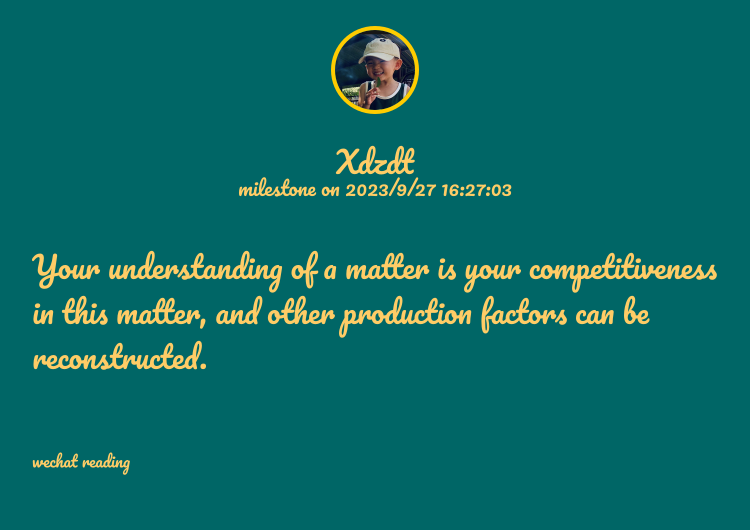
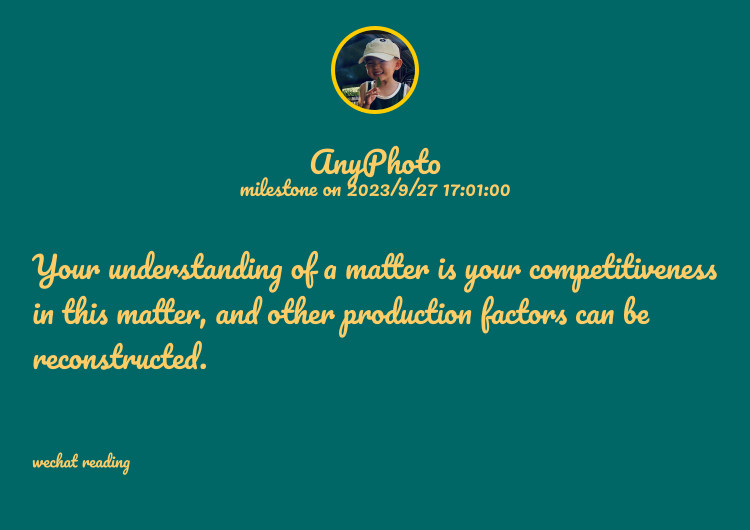
feat(output): support set custom output name

Changed region(s): [[0.3067, 0.2717, 0.6747, 0.3925]]

diff --git a/src/cmd/generate.js b/src/cmd/generate.js
@@ -1,6 +1,13 @@
 const path = require('path')
 const fs = require('fs')
-const { defaultAuthor, defaultAvatar, defaultOutput, defaultConfigName, optionsCpu } = require('../config')
+const {
+  defaultAuthor,
+  defaultAvatar,
+  defaultOutputDirPath,
+  defaultOutputName,
+  defaultConfigName,
+  optionsCpu
+} = require('../config')
 const { defaultCanvasSetting } = require('../setting')
 const draw = require('../draw')
 
@@ -47,8 +54,10 @@ const getAnyPhotoConfigByKey = ({ key, options }) => {
       return defaultAuthor
     case 'defaultAvatar':
       return defaultAvatar
-    case 'defaultOutput':
-      return defaultOutput
+    case 'defaultOutputDirPath':
+      return defaultOutputDirPath
+    case 'defaultOutputName':
+      return defaultOutputName
     default:
       return ''
   }
@@ -56,13 +65,15 @@ const getAnyPhotoConfigByKey = ({ key, options }) => {
 const getAnyPhotoConfig = ({ options }) => {
   const avatar = getAnyPhotoConfigByKey({ key: 'avatar', options })
   const author = getAnyPhotoConfigByKey({ key: 'author', options })
-  const output = getAnyPhotoConfigByKey({ key: 'output', options })
+  const outputDirPath = getAnyPhotoConfigByKey({ key: 'outputDirPath', options })
+  const outputName = getAnyPhotoConfigByKey({ key: 'outputName', options })
 
   return {
     ...handelValidAnyPhotoConfig({
       avatar,
       author,
-      output
+      outputDirPath,
+      outputName
     }),
     canvasSetting: getUserAnyPhotoConfigByKey({ defaultKey: 'canvasSetting' }) || defaultCanvasSetting
   }

diff --git a/src/config.js b/src/config.js
@@ -6,7 +6,8 @@ const isImageUrl = require('is-image-url')
 const defaultConfigName = 'anyphoto.config.js'
 const defaultAvatar = '/Users/weirui05/Desktop/WechatIMG38388.jpg'
 const defaultAuthor = 'AnyPhoto'
-const defaultOutput = 'anyphoto'
+const defaultOutputDirPath = 'anyphoto'
+const defaultOutputName = 'anyphoto'
 
 const optionsCpu = {
   author: {
@@ -21,9 +22,14 @@ const optionsCpu = {
       return isValidAvatar ? avatar : defaultAvatar
     }
   },
-  output: {
+  outputDirPath: {
     validate(outputDirPath) {
       return path.isAbsolute(outputDirPath) ? outputDirPath : path.join(process.cwd(), outputDirPath)
+    }
+  },
+  outputName: {
+    validate(outputName) {
+      return outputName
     }
   }
 }
@@ -32,12 +38,14 @@ module.exports = {
   defaultConfigName,
   defaultAvatar,
   defaultAuthor,
-  defaultOutput,
+  defaultOutputDirPath,
+  defaultOutputName,
   optionsCpu,
   locale: 'english',
   initConfig: theme => {
     return `const anyPhotoConfig = {
-  defaultOutput: '${defaultOutput}',
+  defaultOutputDirPath: '${defaultOutputDirPath}',
+  defaultOutputName: '${defaultOutputName}',
   defaultAvatar: '${defaultAvatar}',
   defaultAuthor: '${defaultAuthor}',
   canvasSetting: ${JSON.stringify(themes[theme], null, 4)}

diff --git a/src/draw.js b/src/draw.js
@@ -2,7 +2,6 @@ const { createCanvas, registerFont, loadImage } = require('canvas')
 const { barWatcher, formatDateTime } = require('./util')
 const HeaderCpu = require('./headerCpu')
 const FooterCpu = require('./footerCpu')
-const path = require('path')
 const base64Img = require('base64-img')
 
 class Drawer {
@@ -384,10 +383,15 @@ class Drawer {
     return calculateHalfWidth > x ? calculateHalfWidth : x
   }
 
+  get generateOutputName() {
+    const { outputName } = this.anyPhotoConfig
+    return `${outputName}`
+  }
+
   async generatePng() {
     const base64img = this.canvas.toDataURL()
-    const { output: outputDirPath } = this.anyPhotoConfig
-    base64Img.img(base64img, outputDirPath, 'anyphoto', (error, filepath) => {
+    const { outputDirPath, outputName } = this.anyPhotoConfig
+    base64Img.img(base64img, outputDirPath, outputName, (error, filepath) => {
       if (error) {
         console.log(error.message)
       } else {

diff --git a/bin/index.js b/bin/index.js
@@ -26,7 +26,11 @@ program
   .argument('<content>', 'Any content you like')
   .option('--avatar <url>', 'The avatar of the photo')
   .option('--author <name>', 'The author name of the photo')
-  .option('--output <folder name>', 'The place where the photo be generated')
+  .option('--outputDirPath <output dirPath>', 'The place where the photo be generated')
+  .option(
+    '--outputName <output name>',
+    'The name of the photo, which will be combined with the current time by default'
+  )
   .action((content, options) => {
     generate({
       content,

diff --git a/src/themes.js b/src/themes.js
@@ -2,7 +2,7 @@ module.exports = {
   theme1: {
     width: 750,
     fontFamilys: ['Arial', 'Times New Roman', 'Verdana', 'Tahoma', 'Courier New', 'Helvetica', 'Custom'],
-    customFontFamilyPath: '',
+    customFontFamilyPath: '/Users/weirui05/Desktop/Pacifico-Regular.ttf',
     fallbackFontFamilyIndex: 4,
     backgroundColor: '#006666',
     color: '#FFCC66',

diff --git a/src/setting.js b/src/setting.js
@@ -1,7 +1,7 @@
 const defaultCanvasSetting = {
   width: 750,
   fontFamilys: ['Arial', 'Times New Roman', 'Verdana', 'Tahoma', 'Courier New', 'Helvetica', 'Custom'],
-  customFontFamilyPath: '',
+  customFontFamilyPath: '/Users/weirui05/Desktop/Pacifico-Regular.ttf',
   fallbackFontFamilyIndex: 4,
   backgroundColor: '#006666',
   color: '#FFCC66',

diff --git a/anyphoto.config.js b/anyphoto.config.js
@@ -1,5 +1,6 @@
 const anyPhotoConfig = {
-  defaultOutput: 'anyphoto',
+  defaultOutputDirPath: 'anyphotod',
+  defaultOutputName: 'anyphoto',
   defaultAvatar: '/Users/weirui05/Desktop/WechatIMG38388.jpg',
   defaultAuthor: 'AnyPhoto',
   canvasSetting: {
